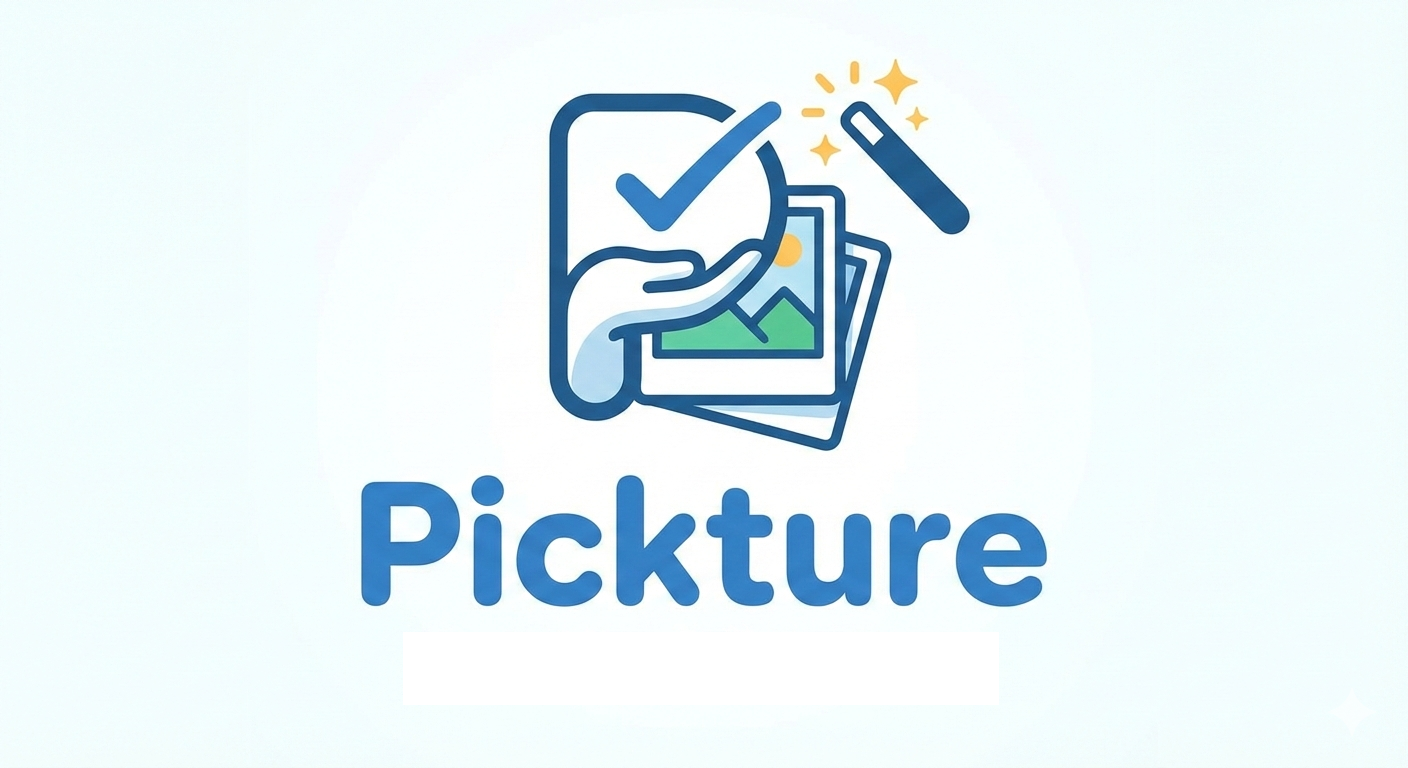
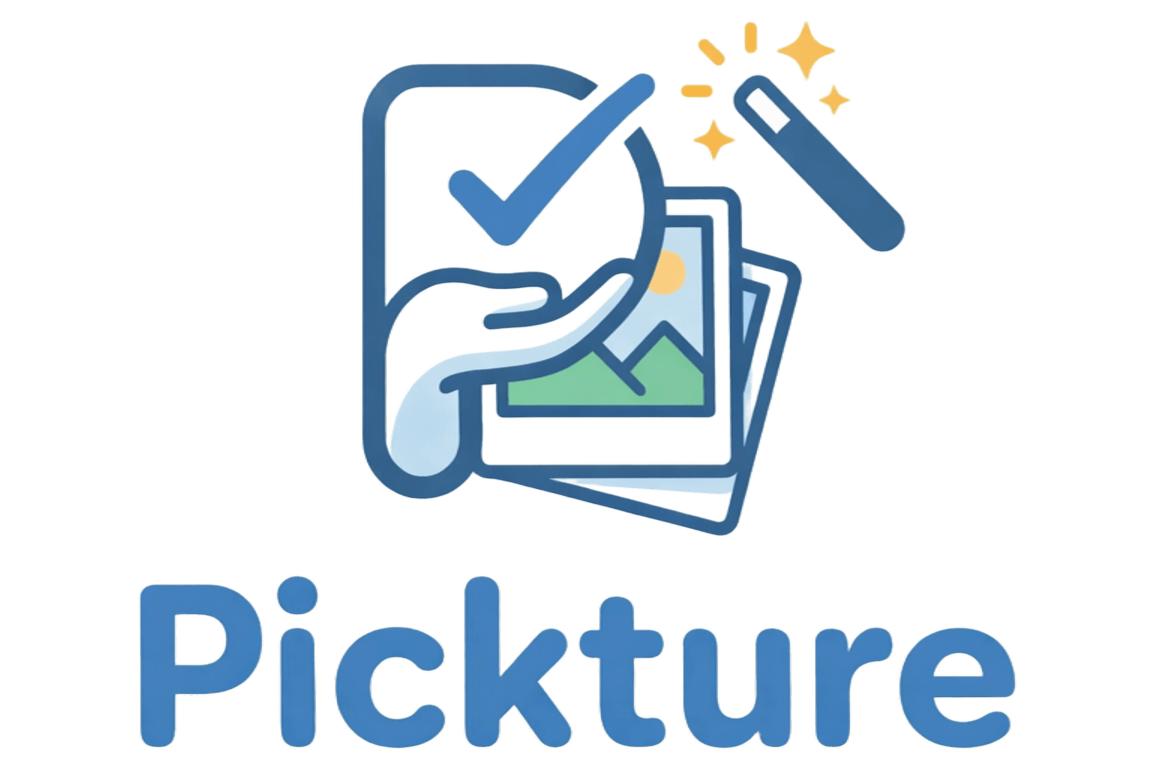
images

Changed region(s): [[0.0919, 0.0312, 0.8885, 0.9688]]

diff --git a/Pickture/Features/FolderSelection/FolderSelectionPage.xaml b/Pickture/Features/FolderSelection/FolderSelectionPage.xaml
@@ -6,23 +6,23 @@
              BackgroundColor="#F5F5F5">
 
     <VerticalStackLayout 
-        Padding="40" 
-        Spacing="30"
+        Padding="0" 
+        Spacing="0"
         VerticalOptions="Center"
         HorizontalOptions="Center">
 
-        <Label 
-            Text="Welcome to Pickture" 
-            FontSize="32"
-            FontAttributes="Bold"
-            TextColor="#333333"
-            HorizontalTextAlignment="Center"/>
+        <Image 
+            Source="pickture.png"
+            WidthRequest="400"
+            HeightRequest="400"
+            Aspect="AspectFit"
+            HorizontalOptions="Center"/>
 
-        <Label 
+        <!-- <Label 
             Text="A lightweight image viewer for photographers" 
             FontSize="16"
             TextColor="#666666"
-            HorizontalTextAlignment="Center"/>
+            HorizontalTextAlignment="Center"/> -->
 
         <Button 
             x:Name="LoadFolderButton"
